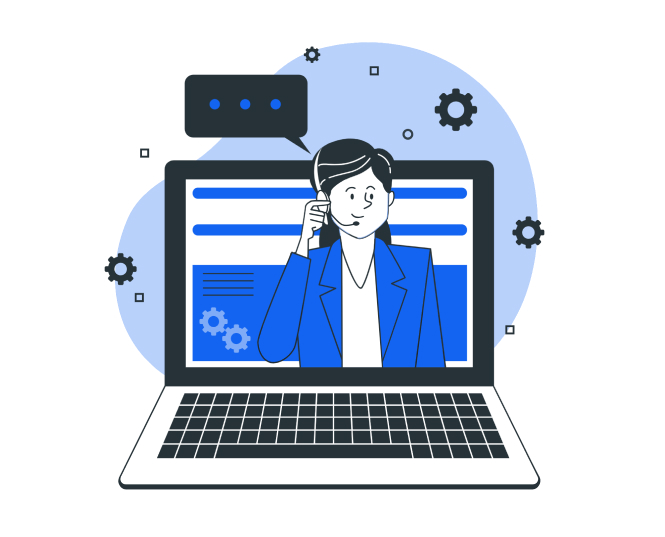
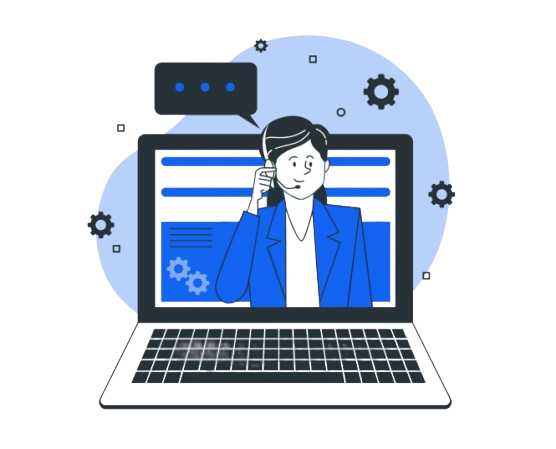
adjust files

diff --git a/contact.html b/contact.html
@@ -4,9 +4,9 @@
     <meta charset="UTF-8" />
     <meta name="viewport" content="width=device-width, initial-scale=1.0" />
     <title>Company Name</title>
-    <link rel="stylesheet" href="../utils/other.css" />
-    <link rel="stylesheet" href="../utils/main.css" />
-    <link rel="stylesheet" href="../utils/gen.css" />
+    <link rel="stylesheet" href="./utils/other.css" />
+    <link rel="stylesheet" href="./utils/main.css" />
+    <link rel="stylesheet" href="./utils/gen.css" />
     <style>
       @layer components {
         .custom-input {
@@ -28,7 +28,7 @@
     </style>
   </head>
   <body class="bg-gray-100">
-    <script src="navbar.js"></script>
+    <script src="./src/navbar.js"></script>
     <section id="thisheader" class="bg-[#056CB8] min-h-[250px] py-20 pb-40">
       <div class="text-center text-white">
         <h1 class="text-3xl md:text-4xl font-bold">
@@ -52,7 +52,7 @@
             <div
               class="sm:border-r-2 sm:border-gray-400 md:border-b-0 md:border-gray-400 lg:border-b-0 lg:border-gray-400 border-b-2 border-gray-400 grid p-4 min-h-full"
             >
-              <img src="../assets/customer-service1.jpg" alt="" />
+              <img src="./assets/customer-service1.jpg" alt="" />
               <p class="text-justify">
                 Not sure which product or service is the right fit for your
                 company?
@@ -67,7 +67,7 @@
               </div>
             </div>
             <div class="grid p-4 min-h-full">
-              <img src="../assets/cubes1.jpg" alt="" />
+              <img src="./assets/cubes1.jpg" alt="" />
               <p class="text-justify">
                 Interested in product? Talk to our sales team.
               </p>
@@ -95,7 +95,7 @@
             <div
               class="sm:border-r-2 sm:border-gray-400 md:border-b-0 md:border-gray-400 lg:border-b-0 lg:border-gray-400 border-b-2 border-gray-400 grid p-4 min-h-full"
             >
-              <img src="../assets/renewal1.jpg" alt="" />
+              <img src="./assets/renewal1.jpg" alt="" />
               <p class="text-justify">
                 Want to renew your subscription or need details about your
                 current plan?
@@ -110,13 +110,13 @@
               </div>
             </div>
             <div class="grid p-4 h-min">
-              <img src="../assets/service1.jpg" alt="" />
+              <img src="./assets/service1.jpg" alt="" />
               <p class="text-justify">
                 Have technical issue ? Raise a ticket for technical support ?
               </p>
               <div class="flex items-center justify-end">
                 <a
-                  href=""
+                  href="raiseaticket.html"
                   class="h-[40px] w-[40px] border rounded-full flex items-center justify-center border-black font-bold"
                 >
                   >
@@ -140,7 +140,7 @@
           value="CRM Software"
           class="bg-white sm:my-auto sm:w-auto my-3 w-full flex gap-4 items-center content-center justify-center p-3"
         >
-          <img src="../assets/elearning1.jpg" alt="" />
+          <img src="./assets/elearning1.jpg" alt="" />
           <p>CRM Software</p>
         </button>
         <button
@@ -148,7 +148,7 @@
           value="Web Development"
           class="bg-white sm:my-auto sm:w-auto my-3 w-full flex gap-4 items-center content-center justify-center p-3"
         >
-          <img src="../assets/elearning1-2.jpg" alt="" />
+          <img src="./assets/elearning1-2.jpg" alt="" />
           <p>Web Development</p>
         </button>
         <button
@@ -156,7 +156,7 @@
           value="App Development"
           class="bg-white sm:my-auto sm:w-auto my-3 w-full flex gap-4 items-center content-center justify-center p-3"
         >
-          <img src="../assets/elearning1-4.jpg" alt="" />
+          <img src="./assets/elearning1-4.jpg" alt="" />
           <p>App Development</p>
         </button>
         <button
@@ -164,7 +164,7 @@
           value="Digital Strategy"
           class="bg-white sm:my-auto sm:w-auto my-3 w-full flex gap-4 items-center content-center justify-center p-3"
         >
-          <img src="../assets/elearning1-1.jpg" alt="" />
+          <img src="./assets/elearning1-1.jpg" alt="" />
           <p>Digital Strategy</p>
         </button>
         <button
@@ -172,7 +172,7 @@
           value="Custom Solution"
           class="bg-white sm:my-auto sm:w-auto my-3 w-full flex gap-4 items-center content-center justify-center p-3"
         >
-          <img src="../assets/elearning1-3.jpg" alt="" />
+          <img src="./assets/elearning1-3.jpg" alt="" />
           <p>Custom Solution</p>
         </button>
         <button
@@ -180,7 +180,7 @@
           value="Portfolio Website"
           class="bg-white sm:my-auto sm:w-auto my-3 w-full flex gap-4 items-center content-center justify-center p-3"
         >
-          <img src="../assets/elearning1-5.jpg" alt="" />
+          <img src="./assets/elearning1-5.jpg" alt="" />
           <p>Portfolio Website</p>
         </button>
       </div>
@@ -193,9 +193,9 @@
         >
           <div class="hidden lg:block lg:w-1/2">
             <img
-              src="../assets/Forms-bro1.jpg"
+              src="./assets/Forms-bro1.jpg"
               alt="Form Image"
-              class="w-full h-auto"
+              class="flex items-center mx-auto content-center justify-center w-auto h-[55vh]"
             />
           </div>
 
@@ -374,7 +374,7 @@
         options.style.display = "none";
       });
     </script>
-    <script src="script.js"></script>
-    <script src="footer.js"></script>
+    <script src="./src/script.js"></script>
+    <script src="./src/footer.js"></script>
   </body>
 </html>

diff --git a/raiseaticket.html b/raiseaticket.html
@@ -4,9 +4,9 @@
     <meta charset="UTF-8" />
     <meta name="viewport" content="width=device-width, initial-scale=1.0" />
     <title>Company Name</title>
-    <link rel="stylesheet" href="../utils/other.css" />
-    <link rel="stylesheet" href="../utils/main.css" />
-    <link rel="stylesheet" href="../utils/gen.css" />
+    <link rel="stylesheet" href="./utils/other.css" />
+    <link rel="stylesheet" href="./utils/main.css" />
+    <link rel="stylesheet" href="./utils/gen.css" />
     <style>
       @layer components {
         .custom-input {
@@ -28,7 +28,7 @@
     </style>
   </head>
   <body class="bg-gray-100">
-    <script src="navbar.js"></script>
+    <script src="./src/navbar.js"></script>
 
     <section
       id="formsection"
@@ -44,9 +44,9 @@
             </h2>
             <br />
             <img
-              src="../assets/ActiveSupport-bro 1.jpg"
+              src="./assets/ActiveSupport-bro 1.jpg"
               alt="Form Image"
-              class="w-full h-auto"
+              class="w-auto mx-auto h-[50vh]"
             />
           </div>
 
@@ -135,7 +135,7 @@
       </div>
     </section>
 
-    <script src="script.js"></script>
-    <script src="footer.js"></script>
+    <script src="./src/script.js"></script>
+    <script src="./src/footer.js"></script>
   </body>
 </html>

diff --git a/index.html b/index.html
@@ -4,13 +4,13 @@
     <meta charset="UTF-8" />
     <meta name="viewport" content="width=device-width, initial-scale=1.0" />
     <title>Company Name</title>
-    <link rel="stylesheet" href="../utils/other.css" />
-    <link rel="stylesheet" href="../utils/main.css" />
-    <link rel="stylesheet" href="../utils/gen.css" />
+    <link rel="stylesheet" href="./utils/other.css" />
+    <link rel="stylesheet" href="./utils/main.css" />
+    <link rel="stylesheet" href="./utils/gen.css" />
   </head>
   <body>
 
-    <script src="navbar.js"></script>
+    <script src="./src/navbar.js"></script>
 
     <div id="main" class="py-10 px-5 sm:pt-24 sm:h-max" style="background: #f8f9fb">
       <div class="sm:max-w-[1000px] sm:h-max max-h-[500px] relative sm:m-auto rounded-md shadow-sm sm:p-4 p-5 py-6 bg-white">
@@ -82,8 +82,8 @@
       </section>
     </div>
 
-    <script src="footer.js"></script>
-    <script src="slider.js"></script>
-    <script src="script.js"></script>
+    <script src="./src/footer.js"></script>
+    <script src="./src/slider.js"></script>
+    <script src="./src/script.js"></script>
   </body>
 </html>

diff --git a/utils/main.css b/utils/main.css
@@ -683,6 +683,34 @@ video {
   height: min-content;
 }
 
+.h-\[80\%\] {
+  height: 80%;
+}
+
+.h-\[40\%\] {
+  height: 40%;
+}
+
+.h-\[40vh\] {
+  height: 40vh;
+}
+
+.h-\[60vh\] {
+  height: 60vh;
+}
+
+.h-\[50vh\] {
+  height: 50vh;
+}
+
+.h-\[55vh\] {
+  height: 55vh;
+}
+
+.h-\[5vh\] {
+  height: 5vh;
+}
+
 .max-h-\[500px\] {
   max-height: 500px;
 }
@@ -913,6 +941,11 @@ video {
 .bg-\[\#F60014\] {
   --tw-bg-opacity: 1;
   background-color: rgb(246 0 20 / var(--tw-bg-opacity));
+}
+
+.bg-red-500 {
+  --tw-bg-opacity: 1;
+  background-color: rgb(239 68 68 / var(--tw-bg-opacity));
 }
 
 .p-12 {
